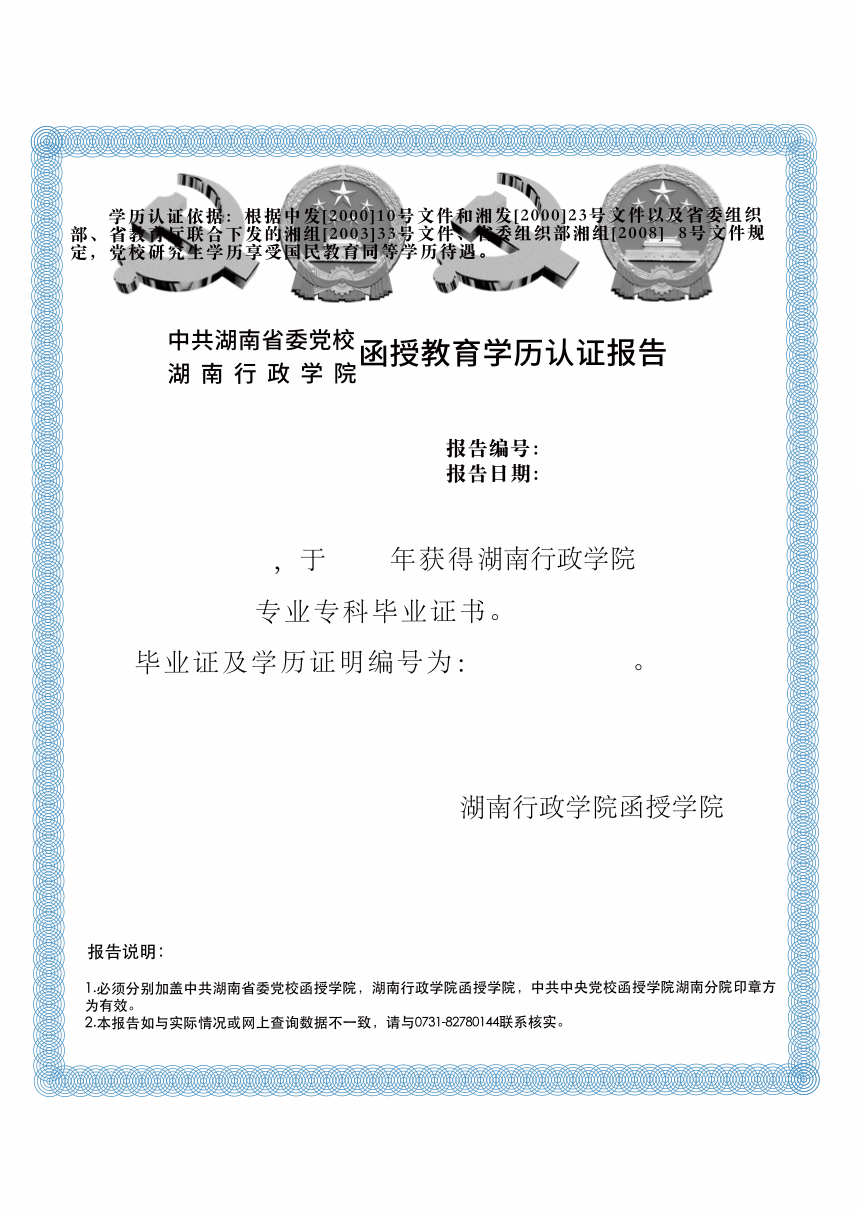
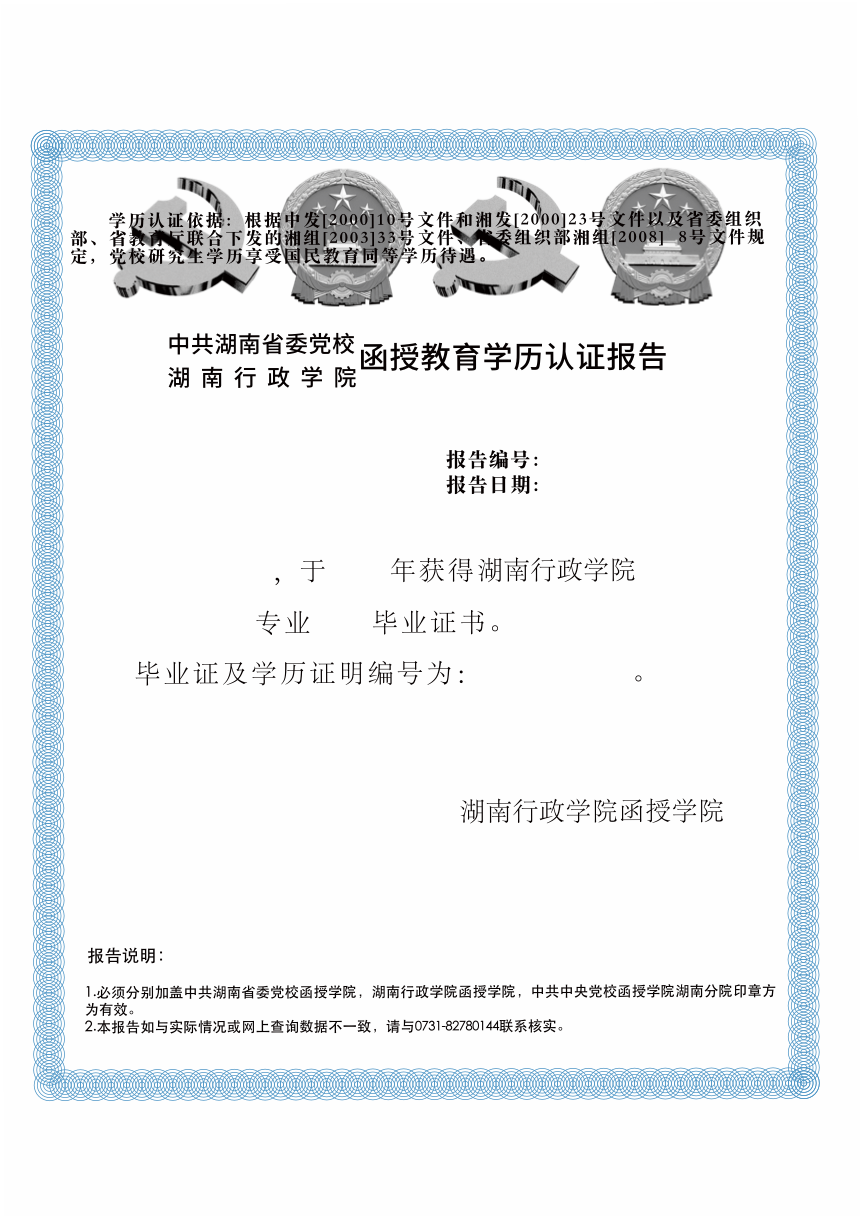
update

diff --git a/app/controller/website/certificate.js b/app/controller/website/certificate.js
@@ -157,18 +157,45 @@ class CertificateController extends BaseController{
         }
       })
 
-      if (xxmc == '湖南行政学院' && zymc.length <=4){
+      if (xxmc == '湖南行政学院'){
         convasCtx.font = "17px bold SimSun";
-        convasCtx.fillText(byzh, 570, 452);
-        convasCtx.fillText(bgrq, 570, 481);
+        convasCtx.fillText(byzh, 570, 460);
+        convasCtx.fillText(bgrq, 570, 490);
 
         convasCtx.font = "26px SimSun";
-        convasCtx.fillText(xm, 180,570);
+        convasCtx.fillText(xm, 180,580);
+        convasCtx.fillText(end_year, 334, 580);
+        convasCtx.fillText(zymc, 140, 635);
+        convasCtx.fillText(byzh, 473, 685);
+        if(zymc.length > 4  && zymc.length < 8){
+          convasCtx.fillText(bj, 402, 635);
+        }
+        else if (zymc.length >= 8){
+          convasCtx.fillText(bj, 507, 635);
+        }
+        else{
+          convasCtx.fillText(bj, 318, 635);
+        }
+      }
+      else if(xxmc == '中共湖南省委党校'){
+        convasCtx.font = "17px bold SimSun";
+        convasCtx.fillText(byzh, 570, 457);
+        convasCtx.fillText(bgrq, 570, 486);
 
-        convasCtx.fillText(end_year, 334, 570);
+        convasCtx.font = "26px SimSun";
+        convasCtx.fillText(xm, 180,575);
+        convasCtx.fillText(end_year, 336, 574);
+        convasCtx.fillText(zymc, 140, 625);
 
-        convasCtx.fillText(zymc, 140, 622);
-
+        if(zymc.length > 4  && zymc.length < 8){
+          convasCtx.fillText(bj, 404, 625);
+        }
+        else if (zymc.length >= 8){
+          convasCtx.fillText(bj, 507, 625);
+        }
+        else{
+          convasCtx.fillText(bj, 318, 625);
+        }
         convasCtx.fillText(byzh, 473, 677);
       }
       else{
@@ -178,13 +205,21 @@ class CertificateController extends BaseController{
 
         convasCtx.font = "26px SimSun";
         convasCtx.fillText(xm, 180,575);
-
         convasCtx.fillText(end_year, 334, 574);
+        convasCtx.fillText(zymc, 140, 625);
 
-        convasCtx.fillText(zymc, 140, 627);
-
+        if(zymc.length > 4  && zymc.length < 8){
+          convasCtx.fillText(bj, 404, 625);
+        }
+        else if (zymc.length >= 8){
+          convasCtx.fillText(bj, 507, 625);
+        }
+        else{
+          convasCtx.fillText(bj, 318, 625);
+        }
         convasCtx.fillText(byzh, 473, 677);
       }
+
 
     }
     else{

diff --git a/app/public/js/src/result.js b/app/public/js/src/result.js
@@ -921,7 +921,7 @@ function getQueryStringByName(name) {
           $("#rxrqTitle").text('入学时间');
           $("#rxrqValue").text(rxsj);
 
-          $("#xllbValue").text(bylb);
+          $("#xllbValue").text(bj);
         } else {
           byzh = data.data.Byzh; //毕业证号
           Pic = data.data.Pic; //图像

diff --git a/app/public/js/src/serverResult.js b/app/public/js/src/serverResult.js
@@ -174,7 +174,7 @@ function getQueryStringByName(name) {
           $("#rxrqTitle").text('入学时间');
           $("#rxrqValue").text(rxsj);
 
-          $("#xllbValue").text(bylb);
+          $("#xllbValue").text(bj);
         } else {
           byzh = data.data.Byzh; //毕业证号
           Pic = data.data.Pic; //图像
